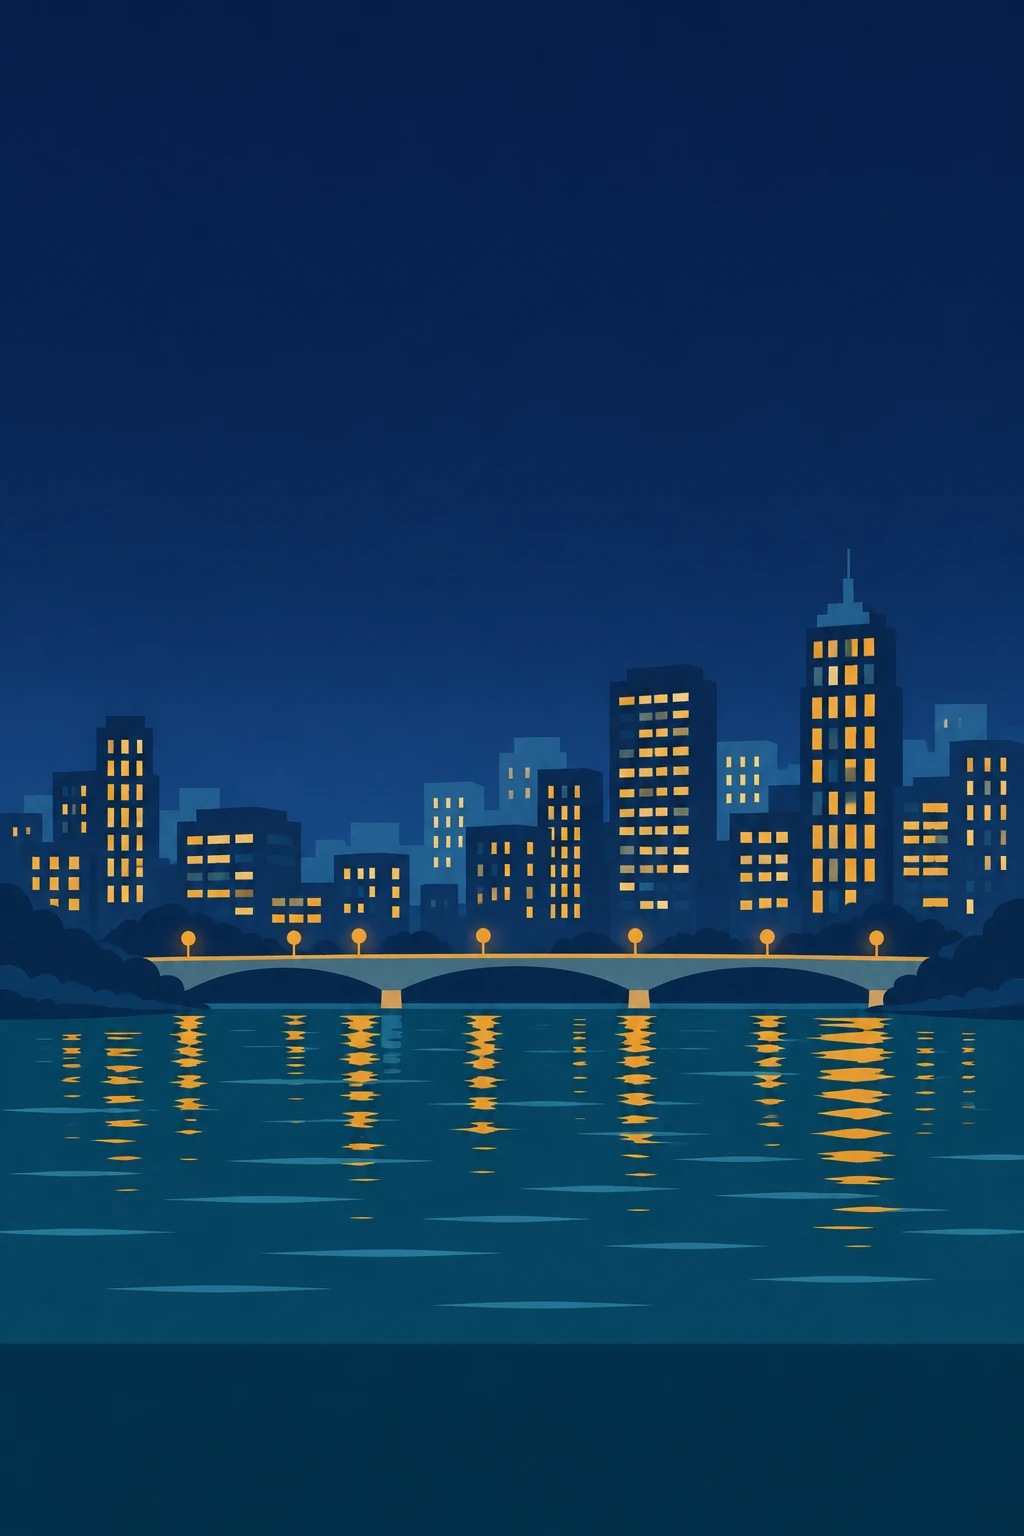
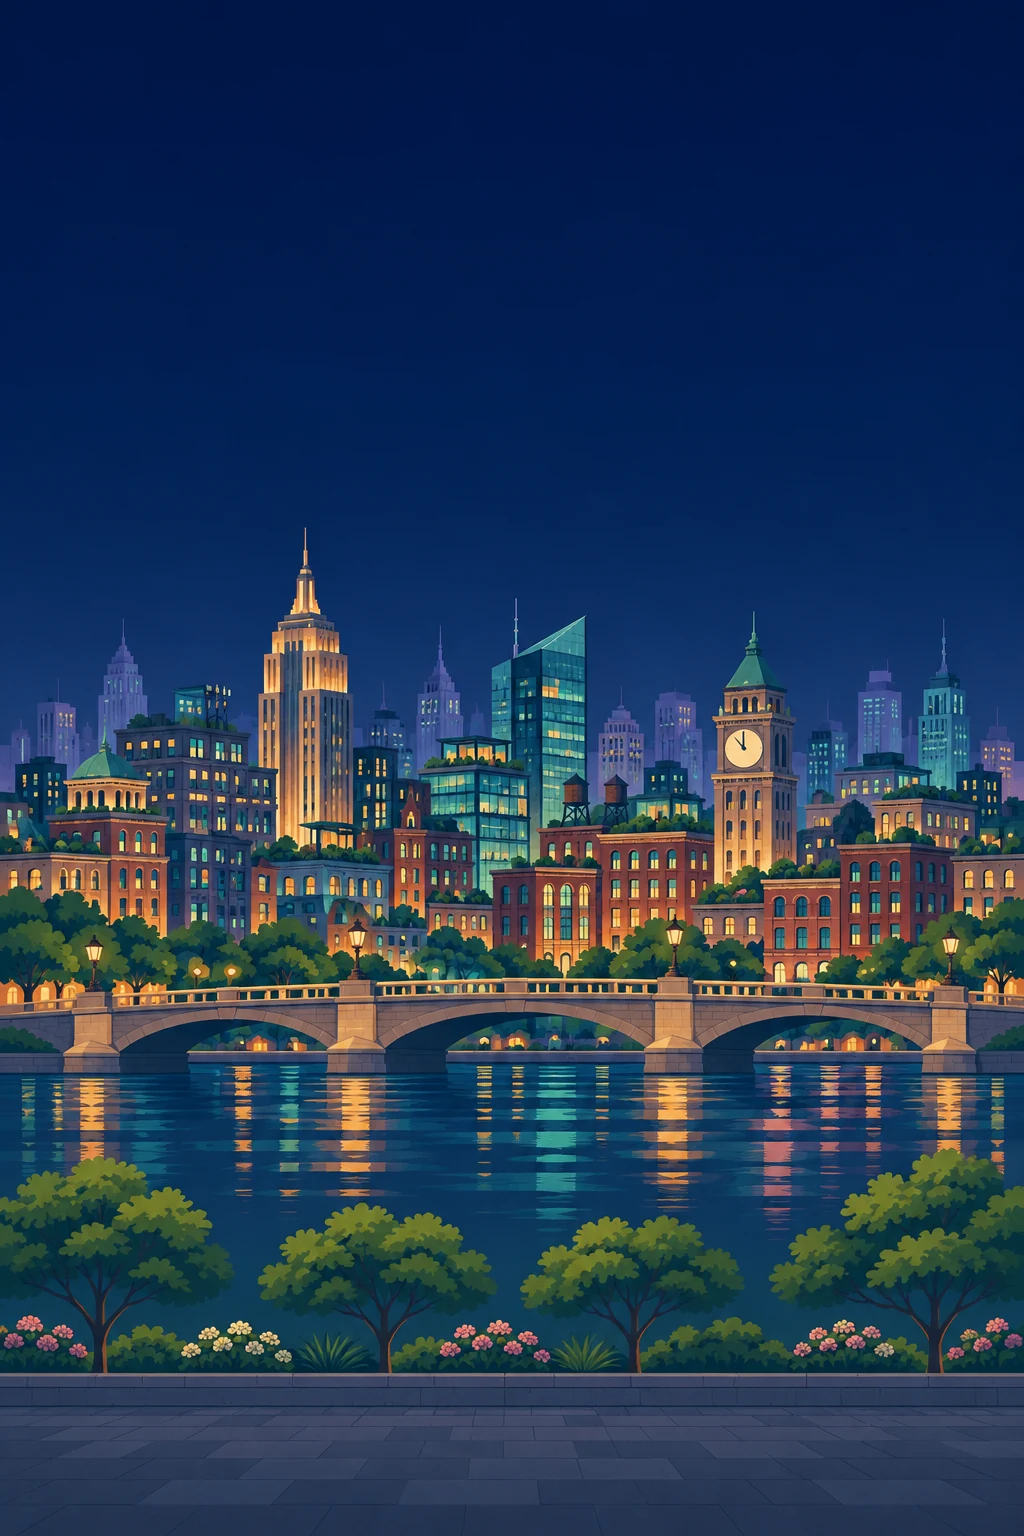
Studio scenes: more detailed art for all six places, a new city with stars and rarer flicker, a coral reef with 16 real reef fish swimming

diff --git a/tools/studio-scenes/worker.js b/tools/studio-scenes/worker.js
@@ -2,7 +2,7 @@
 importScripts('https://cdn.jsdelivr.net/npm/canvaskit-wasm@0.40.0/bin/canvaskit.js');
 const V = self.location.search;            // cache stamp passed through from the page
 let kit, paint, effect, surface, sw = 0, sh = 0, words, places, gl = null, none;
-const packs = {};                          // place key -> { scene, shaders: [art, regions, clouds, lights] }
+const packs = {};                          // place key -> { scene, shaders: [art, regions, clouds, lights, fish] }
 const ready = (async () => {
   kit = await CanvasKitInit({ locateFile: f => 'https://cdn.jsdelivr.net/npm/canvaskit-wasm@0.40.0/bin/' + f });
   paint = new kit.Paint();
@@ -27,7 +27,7 @@ async function pack(key) {
     return img.makeShaderOptions(kit.TileMode.Clamp, kit.TileMode.Clamp, filter, kit.MipmapMode.None);
   };
   const L = kit.FilterMode.Linear, N = kit.FilterMode.Nearest;
-  const shaders = await Promise.all([load(scene.art, L), load(scene.regions, L), load(scene.clouds, L), load(scene.lights, N)]);
+  const shaders = await Promise.all([load(scene.art, L), load(scene.regions, L), load(scene.clouds, L), load(scene.lights, N), load(scene.fish, L)]);
   return packs[key] = { scene, shaders };
 }
 function uniforms(scene, atm, motion, time, width, height) {
@@ -36,7 +36,8 @@ function uniforms(scene, atm, motion, time, width, height) {
     scene.atmospheres[atm] ?? 0,
     m.sway * (g.sway ?? 1), m.water * (g.water ?? 1), m.cloud, m.gust,
     e.anchor || 0, (e.flicker || 0) * m.life, (e.plume || 0) * m.life, e.plumeY || 0, (e.shimmer || 0) * m.life,
-    e.caustics || 0, (e.bubbles || 0) * m.life, e.shafts || 0, e.mist || 0];
+    e.caustics || 0, (e.bubbles || 0) * m.life, e.shafts || 0, e.mist || 0,
+    e.stars || 0, (e.fish || 0) * (0.5 + 0.5 * m.life)];
 }
 self.onmessage = async ({ data }) => {
   try {

diff --git a/tools/studio-scenes/fishsheet.py b/tools/studio-scenes/fishsheet.py
@@ -1,0 +1,42 @@
+"""Cut a 4x4 fish sprite sheet (fish facing right on flat magenta) into the scene's fish atlas.
+
+Each fish is keyed off the magenta, cleaned of magenta fringe, cropped, scaled to fit a
+240x116 box and centred in a 256x128 cell; the atlas is 4 columns x 4 rows (1024x512).
+The shader reads cell i at ((i % 4) * 256, floor(i / 4) * 128), head toward +x.
+
+usage: python3 -I fishsheet.py fish-sheet.png fish.png [preview.jpg]
+"""
+import sys
+import numpy as np
+from PIL import Image
+
+src, out = sys.argv[1], sys.argv[2]
+prev = sys.argv[3] if len(sys.argv) > 3 else None
+sheet = np.asarray(Image.open(src).convert('RGB').resize((1024, 1024), Image.LANCZOS)).astype(float)
+key = np.array([255.0, 0.0, 255.0])
+atlas = Image.new('RGBA', (1024, 512), (0, 0, 0, 0))
+
+for i in range(16):
+    cy, cx = divmod(i, 4)
+    cell = sheet[cy * 256:(cy + 1) * 256, cx * 256:(cx + 1) * 256]
+    d = np.sqrt(((cell - key) ** 2).sum(-1))
+    a = np.clip((d - 60) / 80, 0, 1)                 # magenta -> 0, real colour -> 1
+    a[:4], a[-4:], a[:, :4], a[:, -4:] = 0, 0, 0, 0   # cell borders are never fish
+    # un-mix the magenta from half-transparent edge pixels
+    rgb = (cell - (1 - a[..., None]) * key) / np.maximum(a[..., None], 1e-3)
+    rgb = np.clip(rgb, 0, 255)
+    ys, xs = np.nonzero(a > 0.5)
+    if len(xs) == 0:
+        print('cell', i, 'is empty'); continue
+    y0, y1, x0, x1 = ys.min(), ys.max() + 1, xs.min(), xs.max() + 1
+    rgba = np.dstack([rgb, a * 255])[y0:y1, x0:x1].astype(np.uint8)
+    im = Image.fromarray(rgba, 'RGBA')
+    k = min(240 / im.width, 116 / im.height)
+    im = im.resize((max(1, round(im.width * k)), max(1, round(im.height * k))), Image.LANCZOS)
+    atlas.alpha_composite(im, (cx * 256 + (256 - im.width) // 2, cy * 128 + (128 - im.height) // 2))
+    print(f'cell {i}: {x1 - x0}x{y1 - y0} px')
+
+atlas.save(out)
+if prev:
+    bg = Image.new('RGBA', atlas.size, (40, 120, 150, 255)); bg.alpha_composite(atlas)
+    bg.convert('RGB').save(prev)
